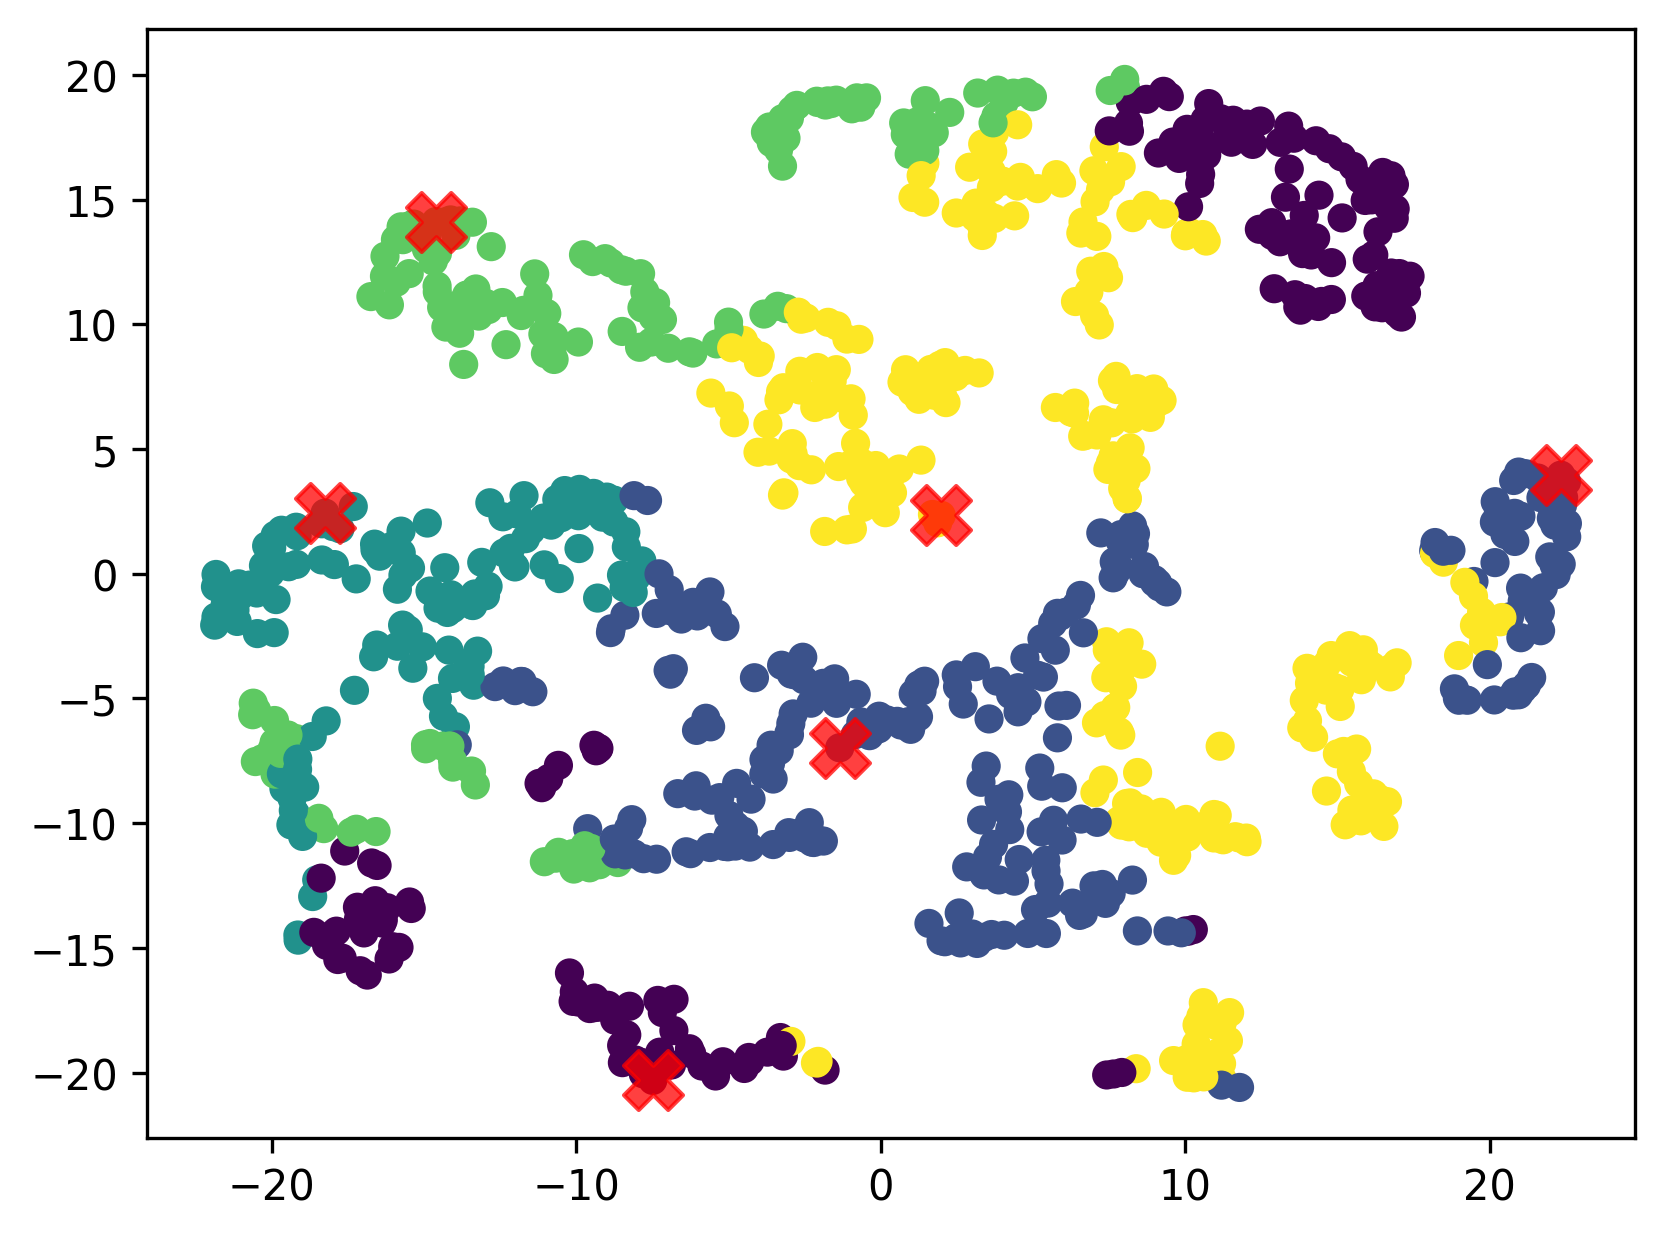
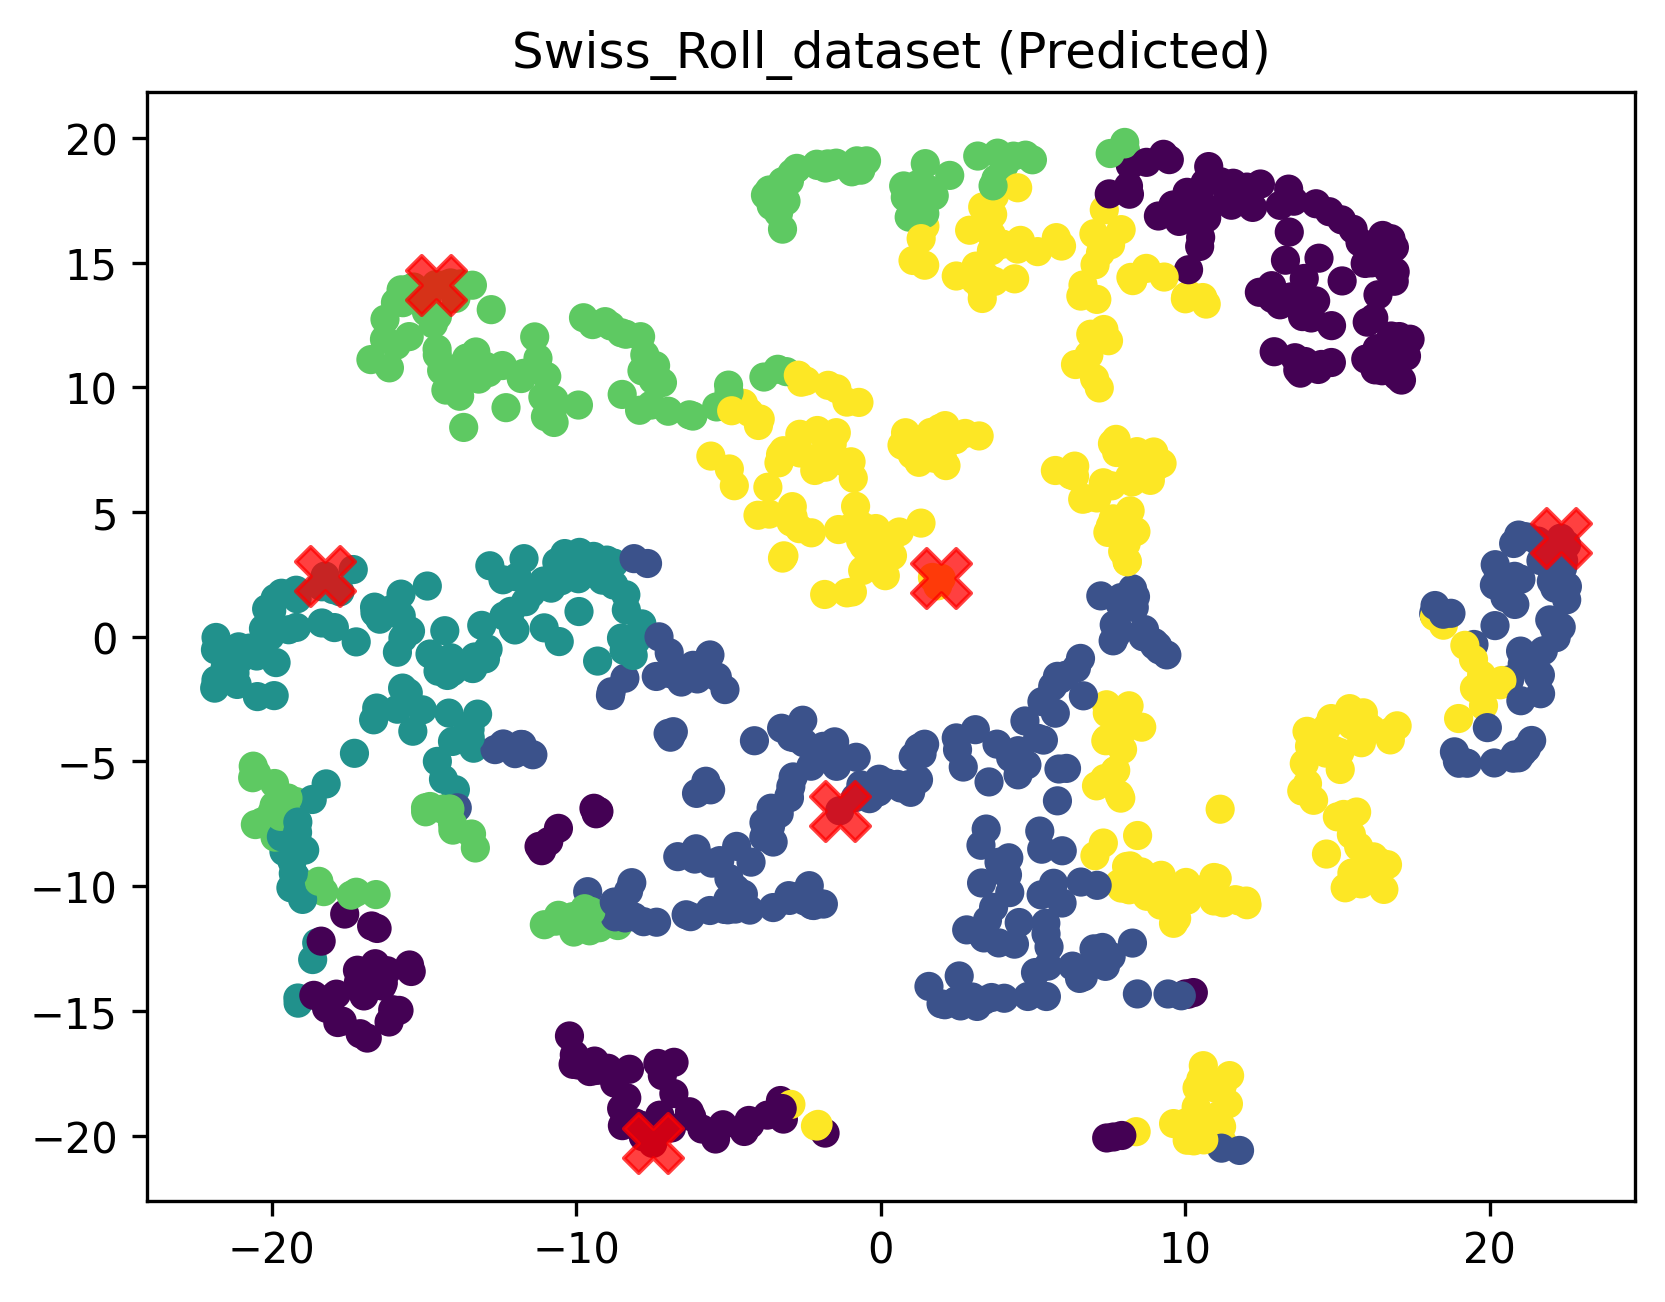
added

diff --git a/kmeans_dataset_tests.py b/kmeans_dataset_tests.py
@@ -3,8 +3,9 @@ import json
 import matplotlib.pyplot as plt
 import numpy as np
 from scipy.stats import mode
-from sklearn.datasets import make_moons
-from sklearn.metrics import f1_score, accuracy_score
+from sklearn.datasets import make_moons, load_breast_cancer, load_wine, load_iris, fetch_openml, make_swiss_roll
+from sklearn.metrics import f1_score, accuracy_score, silhouette_score, davies_bouldin_score, calinski_harabasz_score, \
+    adjusted_rand_score, normalized_mutual_info_score, adjusted_mutual_info_score, mutual_info_score
 
 from src.kmeans import KMeans
 from src.tsne import Tsne
@@ -20,27 +21,58 @@ def map_clusters_to_labels(y_true, y_pred):
 
 
 def test_dataset(X, Y, n_clusters, name):
+    # Initialize and train KMeans
     cluster = KMeans(n_clusters=n_clusters, random_state=27, max_iter=300)
     cluster.train(X)
-    result = json.load(open("results/kmeans/results.json", "r"))
+
+    # Load existing results or create a new dict
+    result = json.load(open("results/kmeans/results.json", "r"))  # Ensure directory exists
     result[name] = {}
-    Y_Predict = map_clusters_to_labels(Y, cluster.assign_clusters(X))
-    print(f"Accuracy: {accuracy_score(Y, Y_Predict)}")
-    print(f"F1-Score: {f1_score(Y, Y_Predict, average='macro')}")
-    result[name]["accuracy"] = accuracy_score(Y, Y_Predict)
-    result[name]["f1-score"] = f1_score(Y, Y_Predict, average='macro')
+
+    # Align cluster labels with true labels for accuracy/F1 (if needed)
+    Y_predict = map_clusters_to_labels(Y, cluster.labels_)  # Assuming labels_ exists after training
+
+    # Basic metrics (accuracy, F1, inertia)
+    print(f"Accuracy: {accuracy_score(Y, Y_predict):.3f}")
+    print(f"F1-Score: {f1_score(Y, Y_predict, average='macro'):.3f}")
+    result[name]["accuracy"] = accuracy_score(Y, Y_predict)
+    result[name]["f1-score"] = f1_score(Y, Y_predict, average='macro')
+    result[name]["inertia"] = cluster.inertia_  # Sum of squared distances
+
+    # Internal metrics (no true labels needed)
+    result[name]["silhouette"] = silhouette_score(X, cluster.labels_)
+    result[name]["davies_bouldin"] = davies_bouldin_score(X, cluster.labels_)
+    result[name]["calinski_harabasz"] = calinski_harabasz_score(X, cluster.labels_)
+
+    # External metrics (require true labels Y)
+    result[name]["adjusted_rand"] = adjusted_rand_score(Y, cluster.labels_)
+    result[name]["normalized_mutual_info"] = normalized_mutual_info_score(Y, cluster.labels_)
+    result[name]["adjusted_mutual_info"] = adjusted_mutual_info_score(Y, cluster.labels_)
+    result[name]["mutual_info"] = mutual_info_score(Y, cluster.labels_)
+
+    # Save updated results
     json.dump(result, open("results/kmeans/results.json", "w"), indent=2)
+
+    # Visualization (t-SNE for clusters and centroids)
     tsne = Tsne(data=X, n_components=2, perplexity=30, learning_rate=200, n_iter=2000)
     Transformed_X = tsne.fit_transform_without_graph(np.vstack((X, cluster.centroids)))
     Transformed_centers = Transformed_X[-n_clusters:]
     Transformed_X = Transformed_X[:-n_clusters]
-    plt.scatter(Transformed_X[:, 0], Transformed_X[:, 1], c=Y_Predict, cmap='viridis')
-    plt.scatter(Transformed_centers[:, 0], Transformed_centers[:, 1], c='red', s=200, alpha=0.75, marker='X')
+
+    # Predicted clusters plot
+    plt.scatter(Transformed_X[:, 0], Transformed_X[:, 1], c=Y_predict, cmap='viridis')
+    plt.scatter(Transformed_centers[:, 0], Transformed_centers[:, 1],
+                c='red', s=200, alpha=0.75, marker='X')
+    plt.title(f"{name} (Predicted)")
     plt.savefig(f"results/kmeans/{name}_predicted.png", dpi=300, bbox_inches='tight')
     plt.show()
     plt.close()
+
+    # True labels plot
     plt.scatter(Transformed_X[:, 0], Transformed_X[:, 1], c=Y, cmap='viridis')
-    plt.scatter(Transformed_centers[:, 0], Transformed_centers[:, 1], c='red', s=200, alpha=0.75, marker='X')
+    plt.scatter(Transformed_centers[:, 0], Transformed_centers[:, 1],
+                c='red', s=200, alpha=0.75, marker='X')
+    plt.title(f"{name} (True Labels)")
     plt.savefig(f"results/kmeans/{name}_actual.png", dpi=300, bbox_inches='tight')
     plt.show()
     plt.close()
@@ -92,41 +124,41 @@ def generate_multiple_moons(n_moons=6, samples_per_moon=200, noise=0.05, radius=
 
 if __name__ == "__main__":
     # MNIST dataset
-    # mnist = fetch_openml('mnist_784', version=1, as_frame=False)
-    # X, y = mnist["data"], mnist["target"].astype(int)
-    # # Normalize the data (optional, but often helps)
-    # X = X / 255.0
-    #
-    # # Taking first 1000 due to hardware limitations
-    # X_small = X[:1000]
-    # y_small = y[:1000]
-    # test_dataset(X_small, y_small, n_clusters=10, name="MNIST_dataset")
+    mnist = fetch_openml('mnist_784', version=1, as_frame=False)
+    X, y = mnist["data"], mnist["target"].astype(int)
+    # Normalize the data (optional, but often helps)
+    X = X / 255.0
+
+    # Taking first 1000 due to hardware limitations
+    X_small = X[:1000]
+    y_small = y[:1000]
+    test_dataset(X_small, y_small, n_clusters=10, name="MNIST_dataset")
 
     # Iris dataset
     # Load dataset
-    # iris = load_iris()
-    # # iris = load_wine()
-    # X = iris.data
-    # y = iris.target
-    # test_dataset(X, y, n_clusters=3, name="IRIS_datset")
+    iris = load_iris()
+    # iris = load_wine()
+    X = iris.data
+    y = iris.target
+    test_dataset(X, y, n_clusters=3, name="IRIS_datset")
 
-    # # Wine dataset
-    # wine = load_wine()
-    # X = wine.data
-    # y = wine.target
-    # test_dataset(X, y, n_clusters=5, name="Wine_datset")
+    # Wine dataset
+    wine = load_wine()
+    X = wine.data
+    y = wine.target
+    test_dataset(X, y, n_clusters=5, name="Wine_datset")
 
     # Breast Cancer dataset
-    # cancer = load_breast_cancer()
-    # X = cancer.data
-    # y = cancer.target
-    # test_dataset(X, y, n_clusters=2, name="Cancer_datset")
+    cancer = load_breast_cancer()
+    X = cancer.data
+    y = cancer.target
+    test_dataset(X, y, n_clusters=2, name="Cancer_datset")
 
     # Synthetic Swiss Roll dataset
-    # X, y_cont = make_swiss_roll(n_samples=1000, noise=0.1)
-    # n_classes = 6
-    # y_class = np.digitize(y_cont, bins=np.linspace(y_cont.min(), y_cont.max(), n_classes))
-    # test_dataset(X, y_class, n_clusters=n_classes, name="Swiss_Roll_dataset")
+    X, y_cont = make_swiss_roll(n_samples=1000, noise=0.1)
+    n_classes = 6
+    y_class = np.digitize(y_cont, bins=np.linspace(y_cont.min(), y_cont.max(), n_classes))
+    test_dataset(X, y_class, n_clusters=n_classes, name="Swiss_Roll_dataset")
 
     X_rings, y_rings = generate_multiple_rings(n_rings=6, samples_per_ring=200, noise=0.08)
     test_dataset(X_rings, y_rings, n_clusters=10, name="Rings_dataset")

diff --git a/kcenter_dataset_tests.py b/kcenter_dataset_tests.py
@@ -4,7 +4,8 @@ import matplotlib.pyplot as plt
 import numpy as np
 from scipy.stats import mode
 from sklearn.datasets import make_moons, load_iris, load_wine, fetch_openml, load_breast_cancer, make_swiss_roll
-from sklearn.metrics import f1_score, accuracy_score
+from sklearn.metrics import f1_score, accuracy_score, silhouette_score, davies_bouldin_score, calinski_harabasz_score, \
+    adjusted_rand_score, normalized_mutual_info_score, adjusted_mutual_info_score, mutual_info_score
 
 from src.kcenter import KCenter  # Changed import
 from src.tsne import Tsne
@@ -20,34 +21,58 @@ def map_clusters_to_labels(y_true, y_pred):
 
 
 def test_dataset(X, Y, n_clusters, name):
-    cluster = KCenter(n_clusters=n_clusters, random_state=27)  # KCenter instance
+    # Initialize and train KCenter
+    cluster = KCenter(n_clusters=n_clusters, random_state=27)
     cluster.train(X)
-    result = json.load(open("results/kcenter/results.json", "r"))  # Changed path
+
+    # Load existing results or create a new dict
+    result = json.load(open("results/kcenter/results.json", "r"))  # Ensure directory exists
     result[name] = {}
-    Y_Predict = map_clusters_to_labels(Y, cluster.labels_)  # Use directly from labels_
-    print(f"Accuracy: {accuracy_score(Y, Y_Predict)}")
-    print(f"F1-Score: {f1_score(Y, Y_Predict, average='macro')}")
-    result[name]["accuracy"] = accuracy_score(Y, Y_Predict)
-    result[name]["f1-score"] = f1_score(Y, Y_Predict, average='macro')
-    result[name]["max_distance"] = cluster.inertia_  # Store K-center specific metric
+
+    # Align cluster labels with true labels for accuracy/F1 (if needed)
+    Y_predict = map_clusters_to_labels(Y, cluster.labels_)
+
+    # Basic metrics (accuracy, F1, inertia)
+    print(f"Accuracy: {accuracy_score(Y, Y_predict):.3f}")
+    print(f"F1-Score: {f1_score(Y, Y_predict, average='macro'):.3f}")
+    result[name]["accuracy"] = accuracy_score(Y, Y_predict)
+    result[name]["f1-score"] = f1_score(Y, Y_predict, average='macro')
+    result[name]["max_distance"] = cluster.inertia_
+
+    # Internal metrics (no true labels needed)
+    result[name]["silhouette"] = silhouette_score(X, cluster.labels_)
+    result[name]["davies_bouldin"] = davies_bouldin_score(X, cluster.labels_)
+    result[name]["calinski_harabasz"] = calinski_harabasz_score(X, cluster.labels_)
+
+    # External metrics (require true labels Y)
+    result[name]["adjusted_rand"] = adjusted_rand_score(Y, cluster.labels_)
+    result[name]["normalized_mutual_info"] = normalized_mutual_info_score(Y, cluster.labels_)
+    result[name]["adjusted_mutual_info"] = adjusted_mutual_info_score(Y, cluster.labels_)
+    result[name]["mutual_info"] = mutual_info_score(Y, cluster.labels_)
+
+    # Save updated results
     json.dump(result, open("results/kcenter/results.json", "w"), indent=2)
 
-    # Visualization remains similar
+    # Visualization (t-SNE for clusters and centroids)
     tsne = Tsne(data=X, n_components=2, perplexity=30, learning_rate=200, n_iter=2000)
     Transformed_X = tsne.fit_transform_without_graph(np.vstack((X, cluster.centroids)))
     Transformed_centers = Transformed_X[-n_clusters:]
     Transformed_X = Transformed_X[:-n_clusters]
 
-    plt.scatter(Transformed_X[:, 0], Transformed_X[:, 1], c=Y_Predict, cmap='viridis')
+    # Predicted clusters plot
+    plt.scatter(Transformed_X[:, 0], Transformed_X[:, 1], c=Y_predict, cmap='viridis')
     plt.scatter(Transformed_centers[:, 0], Transformed_centers[:, 1],
                 c='red', s=200, alpha=0.75, marker='X')
+    plt.title(f"{name} (Predicted)")
     plt.savefig(f"results/kcenter/{name}_predicted.png", dpi=300, bbox_inches='tight')
     plt.show()
     plt.close()
 
+    # True labels plot
     plt.scatter(Transformed_X[:, 0], Transformed_X[:, 1], c=Y, cmap='viridis')
     plt.scatter(Transformed_centers[:, 0], Transformed_centers[:, 1],
                 c='red', s=200, alpha=0.75, marker='X')
+    plt.title(f"{name} (True Labels)")
     plt.savefig(f"results/kcenter/{name}_actual.png", dpi=300, bbox_inches='tight')
     plt.show()
     plt.close()
